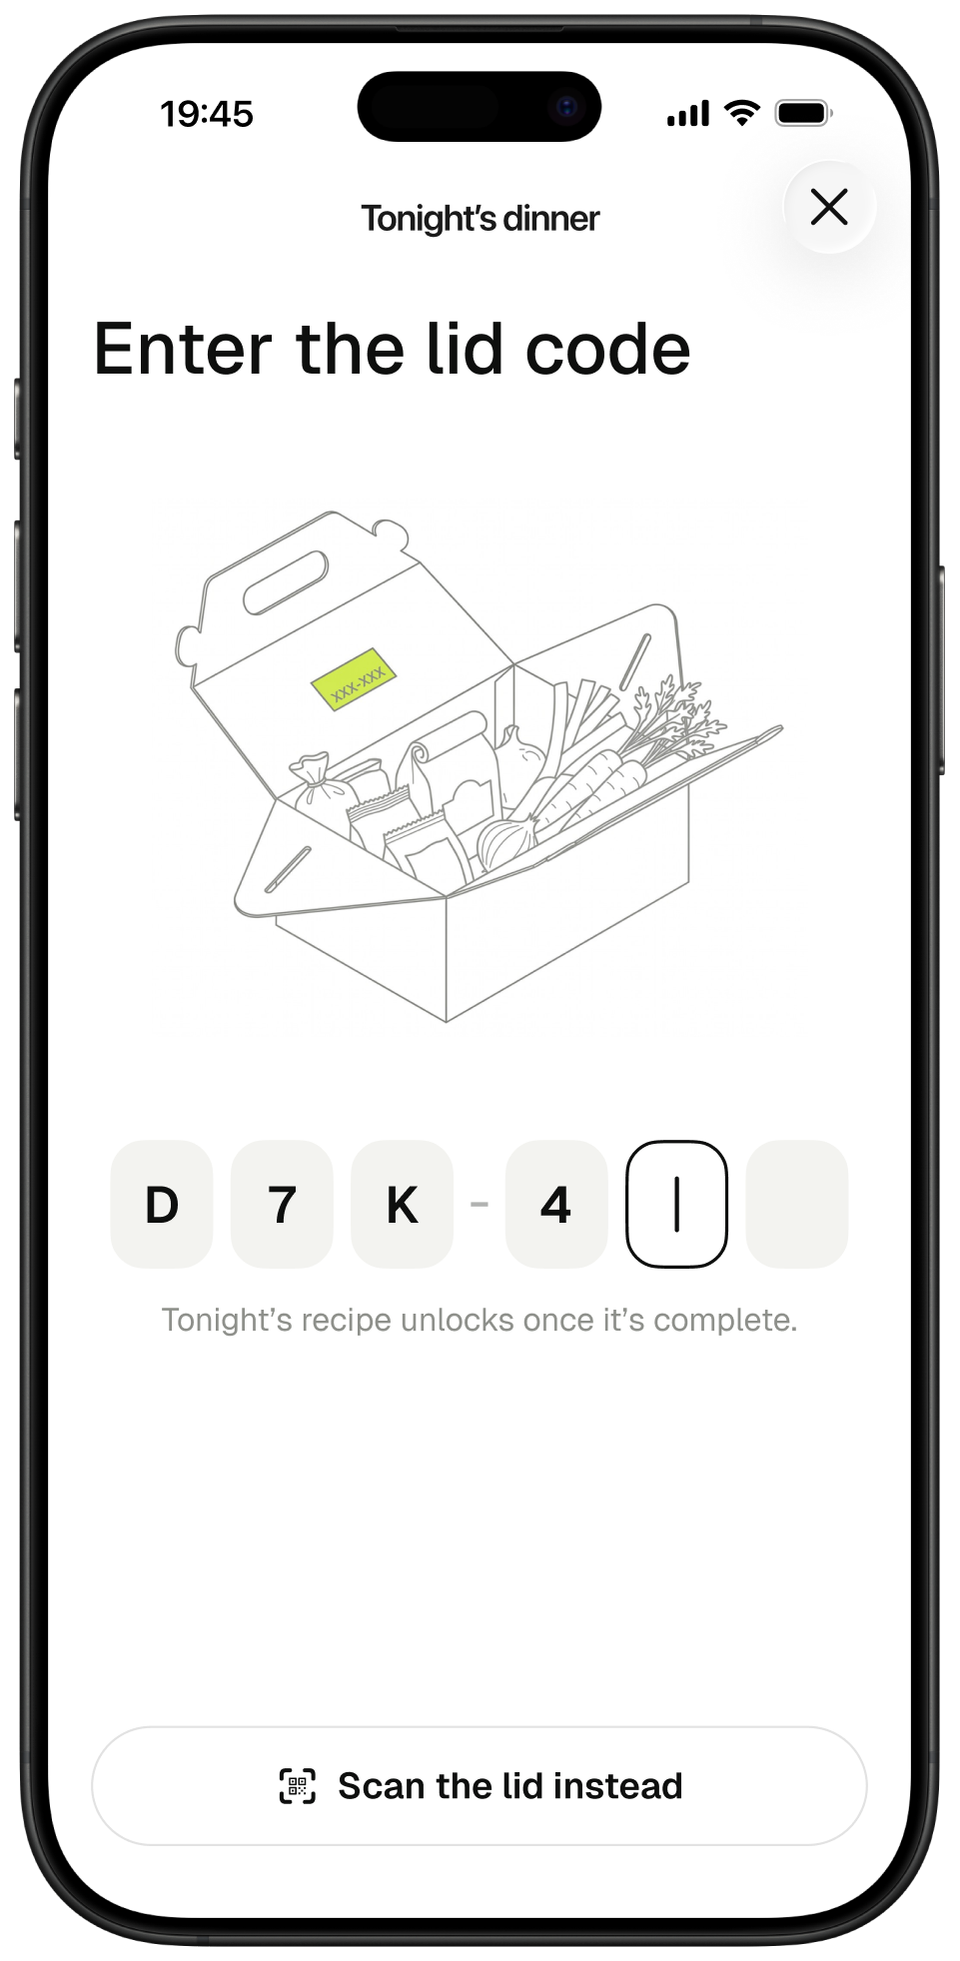
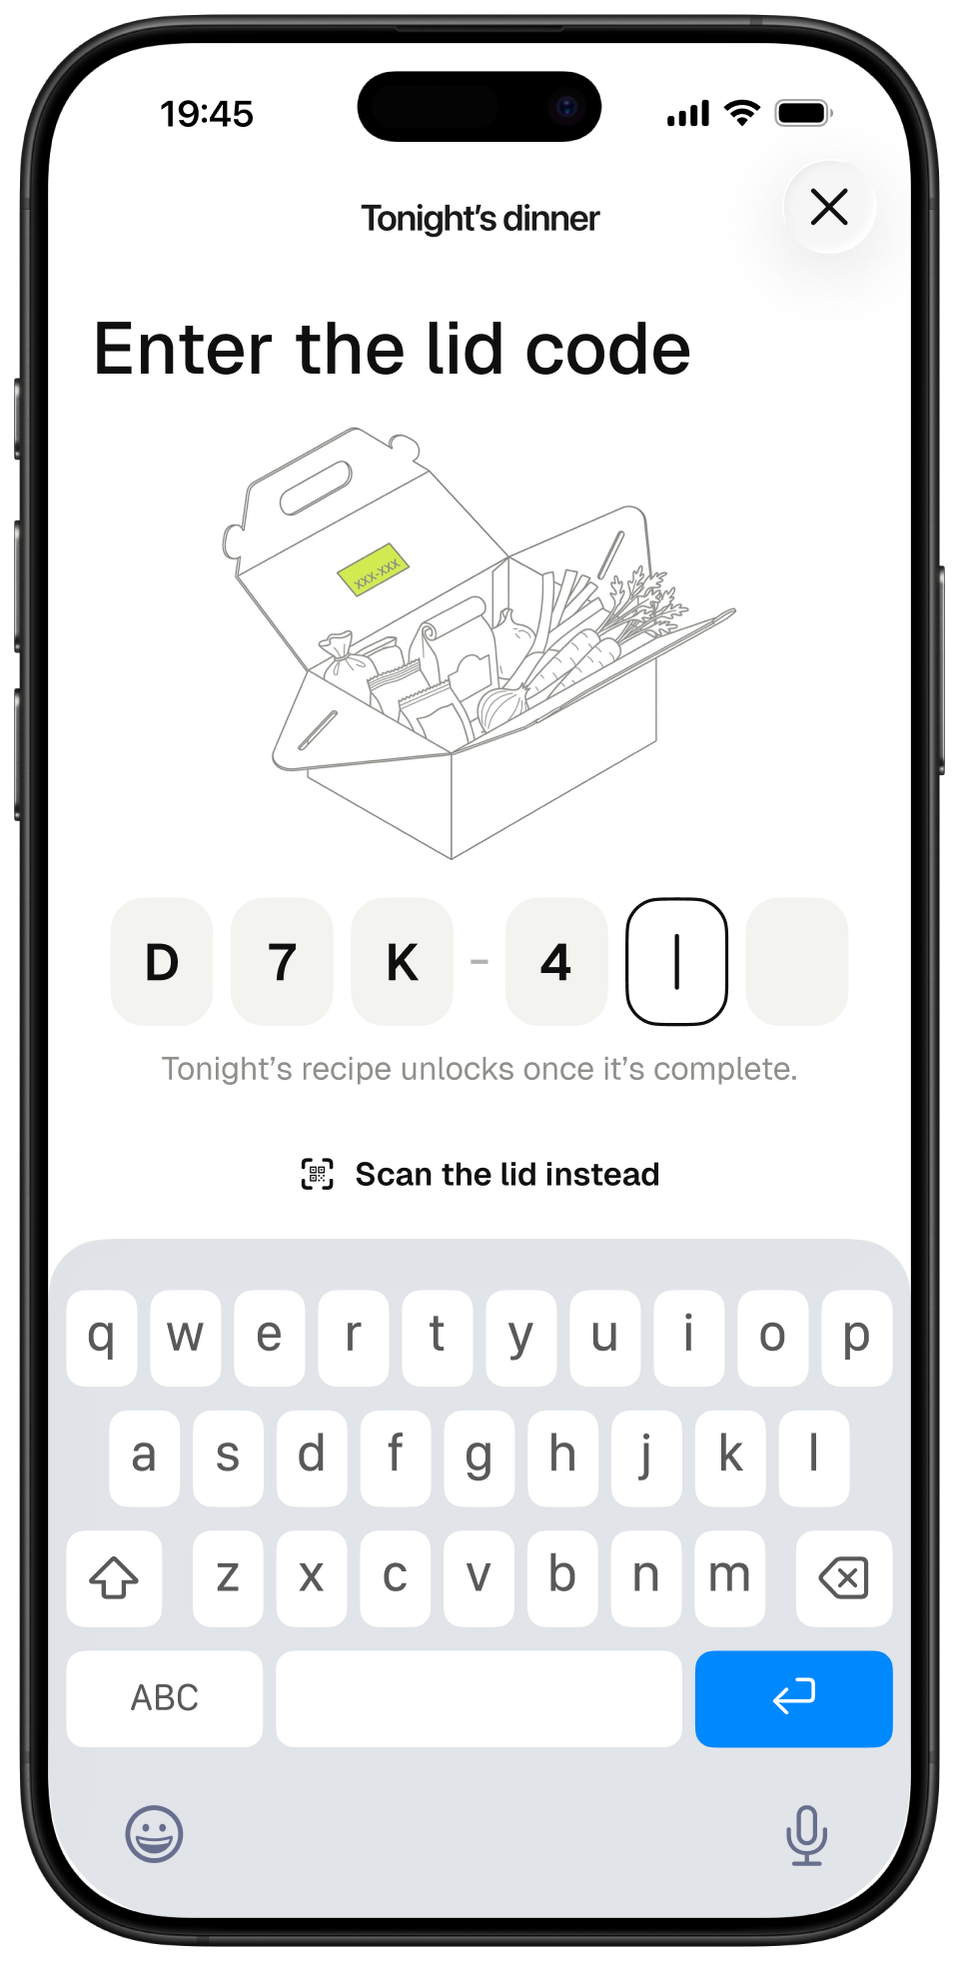
JustCook: lid code with keyboard, updated stamped screen, Result trio

diff --git a/HANDOFF.md b/HANDOFF.md
@@ -807,6 +807,10 @@ When a CLOUD session hits something that needs the local environment, it must:
 
 ## Appendix A — Session log (newest first; keep ~15 entries, fold older facts into §1–§9 above)
 
+- **2026-10-18 · LOCAL (2)** · JustCook Result "From box to stamp" → trio: lid code (re-exported: now with the keyboard),
+  hold to stamp, Thursday stamped (re-exported, owner edit). Dropped code accepted + dinner served (files deleted).
+  All 23 original screens had already been replaced from Redesign v3 in the previous entry. Pushed `main`.
+
 - **2026-10-18 · LOCAL** · JustCook screens replaced with the owner’s **Redesign v3** (Figma file `9kVAJhXfvlz569AYMRGGCn`,
   page "JustCook — Redesign v3" 2056:180: 28 device frames in 5 flows, Home / Cook / Buy / Plan and pantry / Widgets).
   Export recipe: get_screenshot never upscales, so clone each device frame, `rescale(960/w)`, screenshot at 1963,
